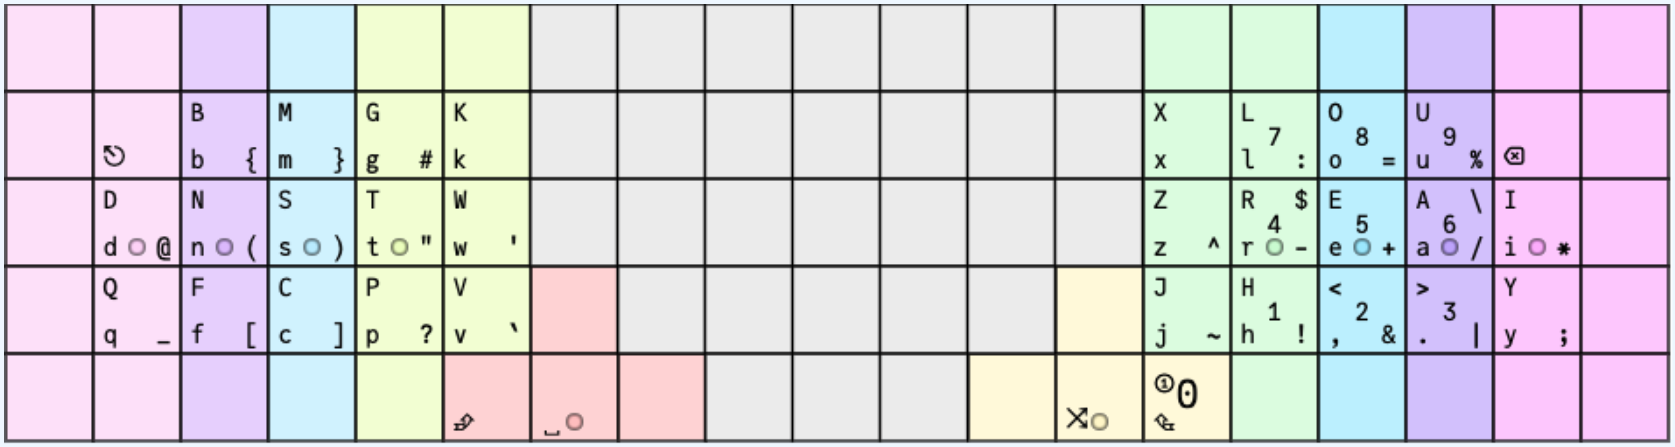
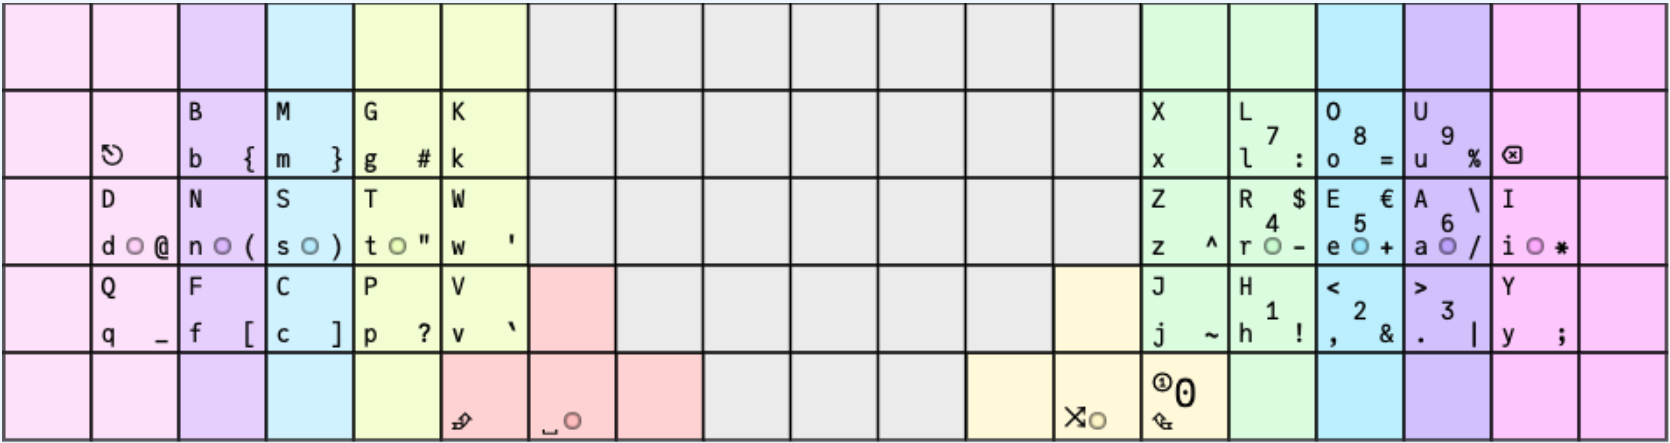
improve euro sign

Changed region(s): [[0.0, 0.0, 1.0, 0.9977], [0.218, 0.2054, 0.2802, 0.2935], [0.1557, 0.2054, 0.1868, 0.2935]]

diff --git a/src/qmk/users/rafaelromao/features/combos.c b/src/qmk/users/rafaelromao/features/combos.c
@@ -122,6 +122,7 @@ const uint16_t PROGMEM r_med_epa_combo[] = {KC_MPLY, KC_MPRV, COMBO_END};
 const uint16_t PROGMEM r_med_oes_combo[]  = {HYPR_R, KC_VOLD, COMBO_END};
 const uint16_t PROGMEM r_med_soe_combo[]  = {KC_VOLD, KC_VOLU, COMBO_END};
 const uint16_t PROGMEM r_rom_sent_combo[] = {RALTT_H, TD_COMM, TD_DOT, COMBO_END};
+const uint16_t PROGMEM r_acc_eur_combo[]  = {MC_GV_A, MC_SQ_O, MC_SQ_U, COMBO_END};
 #endif
 
 // Secret
@@ -133,6 +134,7 @@ combo_t key_combos[] = {
     COMBO(r_med_epa_combo, MC_EPA),   COMBO(r_med_oes_combo, MC_OESC),  COMBO(r_med_soe_combo, MC_SOES),
     COMBO(l_low_par_combo, MC_BRAC),  COMBO(r_rom_sent_combo, MC_SENT), COMBO(r_rom_scp_combo, MC_SCOP),
     COMBO(r_rom_spa_combo, MC_SPAS),  COMBO(l_low_cur_combo, MC_CUR),   COMBO(l_low_par_combo, TD_PARN),
+    COMBO(r_acc_eur_combo, MC_EUR),
 #endif
     COMBO(l_acc_esc_combo, MC_ESCC),  COMBO(l_nav_esc_combo, MC_ESCC),  COMBO(l_num_esc_combo, MC_ESCC),
     COMBO(l_num_num_combo, MC_ESCC),  COMBO(l_num_f10_combo, KC_F10),   COMBO(l_num_f11_combo, KC_F11),

diff --git a/src/qmk/users/rafaelromao/features/tapdance.c b/src/qmk/users/rafaelromao/features/tapdance.c
@@ -275,8 +275,7 @@ void td_plus(tap_dance_state_t *state, void *user_data) {
             tap_code16(KC_PLUS);
             break;
         case TD_SINGLE_HOLD:
-            tap_code(KC_END);
-            tap_code16(KC_PLUS);
+            process_macros(MC_EUR, NULL);
             break;
         default:
             break;
@@ -290,16 +289,14 @@ void td_mins(tap_dance_state_t *state, void *user_data) {
             tap_code16(KC_MINS);
             break;
         case TD_DOUBLE_SINGLE_TAP:
+        case TD_DOUBLE_TAP:
             tap_code16(KC_MINS);
             tap_code16(KC_MINS);
             break;
-        case TD_DOUBLE_TAP:
-            if (is_macos()) {
-                tap_code16(LSFT(RALT(KC_2)));
-            } else {
-                clear_shift();
-                tap_code16(LCTL(LALT(KC_5)));
-            }
+        case TD_TRIPLE_TAP:
+            tap_code16(KC_MINS);
+            tap_code16(KC_MINS);
+            tap_code16(KC_MINS);
             break;
         case TD_SINGLE_HOLD:
             tap_code16(KC_DLR);

diff --git a/src/qmk/users/rafaelromao/features/macros.c b/src/qmk/users/rafaelromao/features/macros.c
@@ -106,6 +106,17 @@ process_record_result_t process_macro_keycode(uint16_t keycode, bool isOneShotSh
             return PROCESS_RECORD_RETURN_FALSE;
 #endif
 
+            // Euro sign
+
+        case MC_EUR:
+            if (isMacOS) {
+                tap_code16(LSFT(RALT(KC_2)));
+            } else {
+                clear_shift();
+                tap_code16(LCTL(LALT(KC_5)));
+            }
+            return PROCESS_RECORD_RETURN_FALSE;
+
             // Conditional operators
 
         case MC_DAND:

diff --git a/src/qmk/users/rafaelromao/definitions/keycodes.h b/src/qmk/users/rafaelromao/definitions/keycodes.h
@@ -104,7 +104,7 @@ enum {
     // Begin macros used to write text
     STR_MACRO_START,
 
-    MC_BTIC, MC_DQUO, MC_SQUO, MC_CIRC, MC_TILD, REPEAT,
+    MC_BTIC, MC_DQUO, MC_SQUO, MC_CIRC, MC_TILD, REPEAT, MC_EUR,
     MC_ENT, MC_TAB, MC_ESC, MC_ESCC, MC_NSEN, MC_CANC, TG_NUMC,
     MC_ESAV, MC_SENT, MC_CUR, MC_SAR, MC_DEQ, MC_NEQ, MC_BRAC,
     MC_DAND, MC_DPIP, MC_OESC, MC_SOES, MC_LTGT, MC_EPA, MC_SEC,
